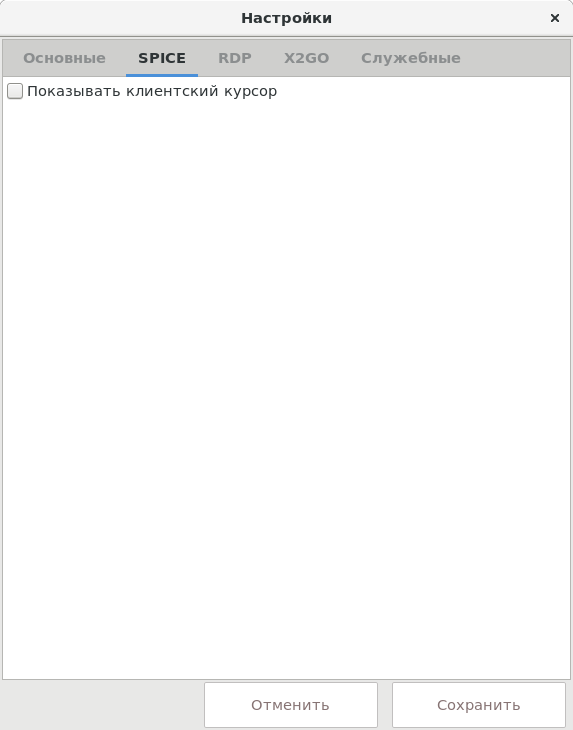
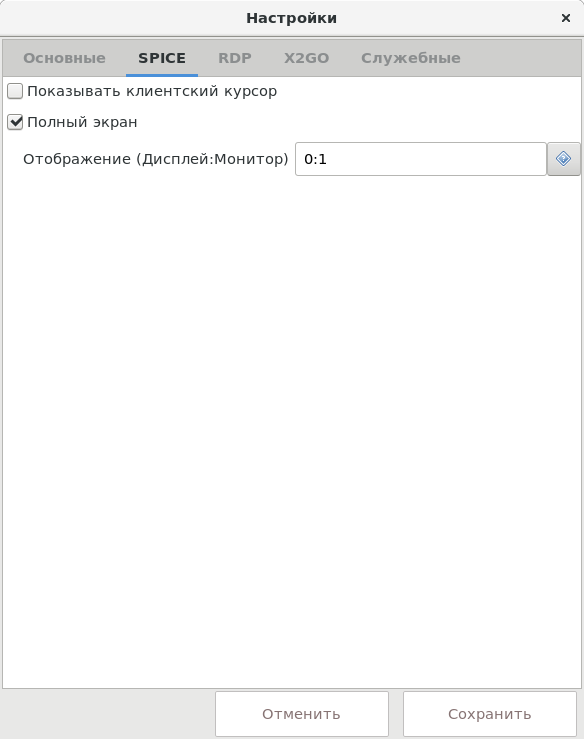
Feature tg 15260

diff --git a/docs/ru/connect/settings/rdp_settings.md b/docs/ru/connect/settings/rdp_settings.md
@@ -11,11 +11,19 @@
 1. Параметр **FPS** задает частоту обновления экрана. Обновляются только изменившиеся области изображения.
 Параметр влияет на загрузку процессора клиента и не влияет на сетевой трафик.
 
-1. Если указать сетевое подключение, то RDP-сервер будет адаптировать параметры подключения в зависимости от выбранного 
-режима для достижения оптимального использования сетевого трафика.
+1. При выборе пункта **Полный экран** приложение раскроется на полный экран.
 
 1. При включенной опции **Мультимониторность** приложение использует до **3** доступных мониторов. Рекомендуется, чтобы 
-на всех мониторах было задано одинаковое разрешение. 
+на всех мониторах была задана одинаковая высота изображения. 
+
+1. **Выбранные мониторы**. Указать, какие клиентские мониторы должны использоваться для отображения 
+удаленного рабочего стола. Мониторы должны иметь обшие стороны. Параметр
+задается как список id мониторов через запятую. Например: 0,1 - использовать
+мониторы с id 0 и 1.  Чтобы узнать идентификаторы(номера) текущих клиентских мониторов нажмите на знак вопроса.
+Для использования более одного монитора должна быть активирована опция **Мультимониторность**.
+
+1. Если указать сетевое подключение, то RDP-сервер будет адаптировать параметры подключения в зависимости от выбранного 
+режима для достижения оптимального использования сетевого трафика.
 
 1. При включенной опции **Перенаправлять принтеры** сетевые принтеры будут перенаправлены в ВМ.
 
@@ -32,6 +40,8 @@
 1. Поле **Перенаправляемые папки** предназначено для задания списка папок, которые будут перенаправлены в ВМ. 
 Перечислите папки через точку с запятой либо выберите их с помощью селектора **Добавить папку**.
  
+1. При включенной опции **Логировать отладочную информацию**, будет сохраняться в файл отладочная информация
+при подключении по RDP. Активизация данной опции может замедлить работу приложения. 
             
 ## Запуск в режиме RemoteApp
 

diff --git a/docs/ru/connect/possible_errors/issue_reporting_data.md b/docs/ru/connect/possible_errors/issue_reporting_data.md
@@ -1,0 +1,25 @@
+# Информация необходимая для решения обнаруженной ошибки
+
+В случае обнаружения ошибки при подключении с помощью с VeiL Connect передайте разработчикам
+ следующую информацию:
+
+1. Описание проблемы и условий, при которых она наблюдается.
+1. Тип и версия операционной системы, где запущен VeiL Connect.
+1. Тип и версия операционной системы, установленной на удаленной машине.
+1. Тип подключения к удаленной машине (Spice, RDP,..).
+1. Тип пула, к которому производится подключение.
+1. Логи VeiL Connect. Логи пишутся на Linux по пути  **/opt/veil-connect/log**, 
+на Windows - **C:\Users\{текущий пользователь}\AppData\Local\VeilConnect\log**.
+ При обнаружении проблемы при подключении по RDP: 
+    - в VeiL Connect зайдите в **Настройки** -> **RDP**;
+    - активизируйте пункт **Логировать отладочную информацию**; 
+    - перезапустите приложение;
+    - воспроизведите ошибку.
+    
+1. Файл настроек VeiL Connect.  Файл находится на Linux по пути  
+**/home/{текущий пользователь}/.config/VeilConnect/veil_client_settings.ini**. 
+На Windows - **C:\Users\{текущий пользователь}\AppData\Local\VeilConnect\veil_client_settings.ini**.
+Предварительно удалить из файла свой пароль, если он сохранен (поле **password**).
+1. Информация о сетевом соединение (интернет/локальная сеть, качество связи, 
+наличие прокси серверов и др.)
+1. Информация о наличии антивирусов и их реакции (если заметна) на VeiL Connect.

diff --git a/docs/ru/connect/settings/spice_settings.md b/docs/ru/connect/settings/spice_settings.md
@@ -3,4 +3,15 @@
 !!! example "Spice"
     ![image](../../_assets/vdi/thin_client/settings_spice.png)
     
-При включенной опции **Показывать клиентский курсор** клиентский курсор "мыши" не будет скрыт.
+1. При включенной опции **Показывать клиентский курсор** клиентский курсор "мыши" не будет скрыт.
+
+1. При выборе пункта **Полный экран** приложение раскроется на полный экран.
+
+1. Список пар отображений гостевых дисплеев на клиентские мониторы (через точку с запятой). 
+Например, чтобы отобразить гостевые дисплеи 0 и 1 на клиентские мониторы 1 и 2,
+используйте 0:1;1:2. Список должен содержать id всех дисплеев от 0 до
+последнего желаемого, т. е. 2:2 это невалидный параметр, так как отсутствуют
+отображения для дисплеев 0 и 1. Данный параметр имет эффект только в режиме
+ПОЛНОГО ЭКРАНА. Требуется ПЕРЕЗАПУСК приложения, чтобы применить изменения.
+Количество дисплеев ВМ задается в веб-интерфейсе ECP VeiL. Чтобы узнать идентификаторы(номера)
+текущих клиентских мониторов нажмите на знак вопроса.

diff --git a/docs/ru/connect/changelog/1.8.10.md b/docs/ru/connect/changelog/1.8.10.md
@@ -1,0 +1,9 @@
+# Основные изменения для VeiL Connect 1.8.10
+
+Совместим с:
+
+    - VeiL ECP версии 4.5.2 и выше
+    - VeiL Broker 3.1.2 и выше
+    
+- Правка отображения ошибки авторизации.
+- Возможность включить логирование отладочной информации FreeRDP на Windows.

diff --git a/README.md b/README.md
@@ -1,7 +1,7 @@
 ### VeiL VDI
 VeiL VDI allows to create user desktops in virtual machines hosted on 
 dedicated servers.
-Connection broker VeiL VDI should install on the trusted OS Astra linux 1.6 SE (for version 3.0 and higher).
+Connection broker VeiL VDI should be installed on the trusted OS Astra linux 1.6 SE (for version 3.0 and higher).
 
 ### Alembic
 ```shell script

diff --git a/docs/ru/connect/changelog/1.8.9.md b/docs/ru/connect/changelog/1.8.9.md
@@ -1,0 +1,8 @@
+# Основные изменения для VeiL Connect 1.8.9
+
+Совместим с:
+
+    - VeiL ECP версии 4.5.2 и выше
+    - VeiL Broker 3.1.2 и выше
+    
+- Поправлена  ошибка: не отправлялись сообщения о подключении к ВМ в случае x2go и native RDP.
